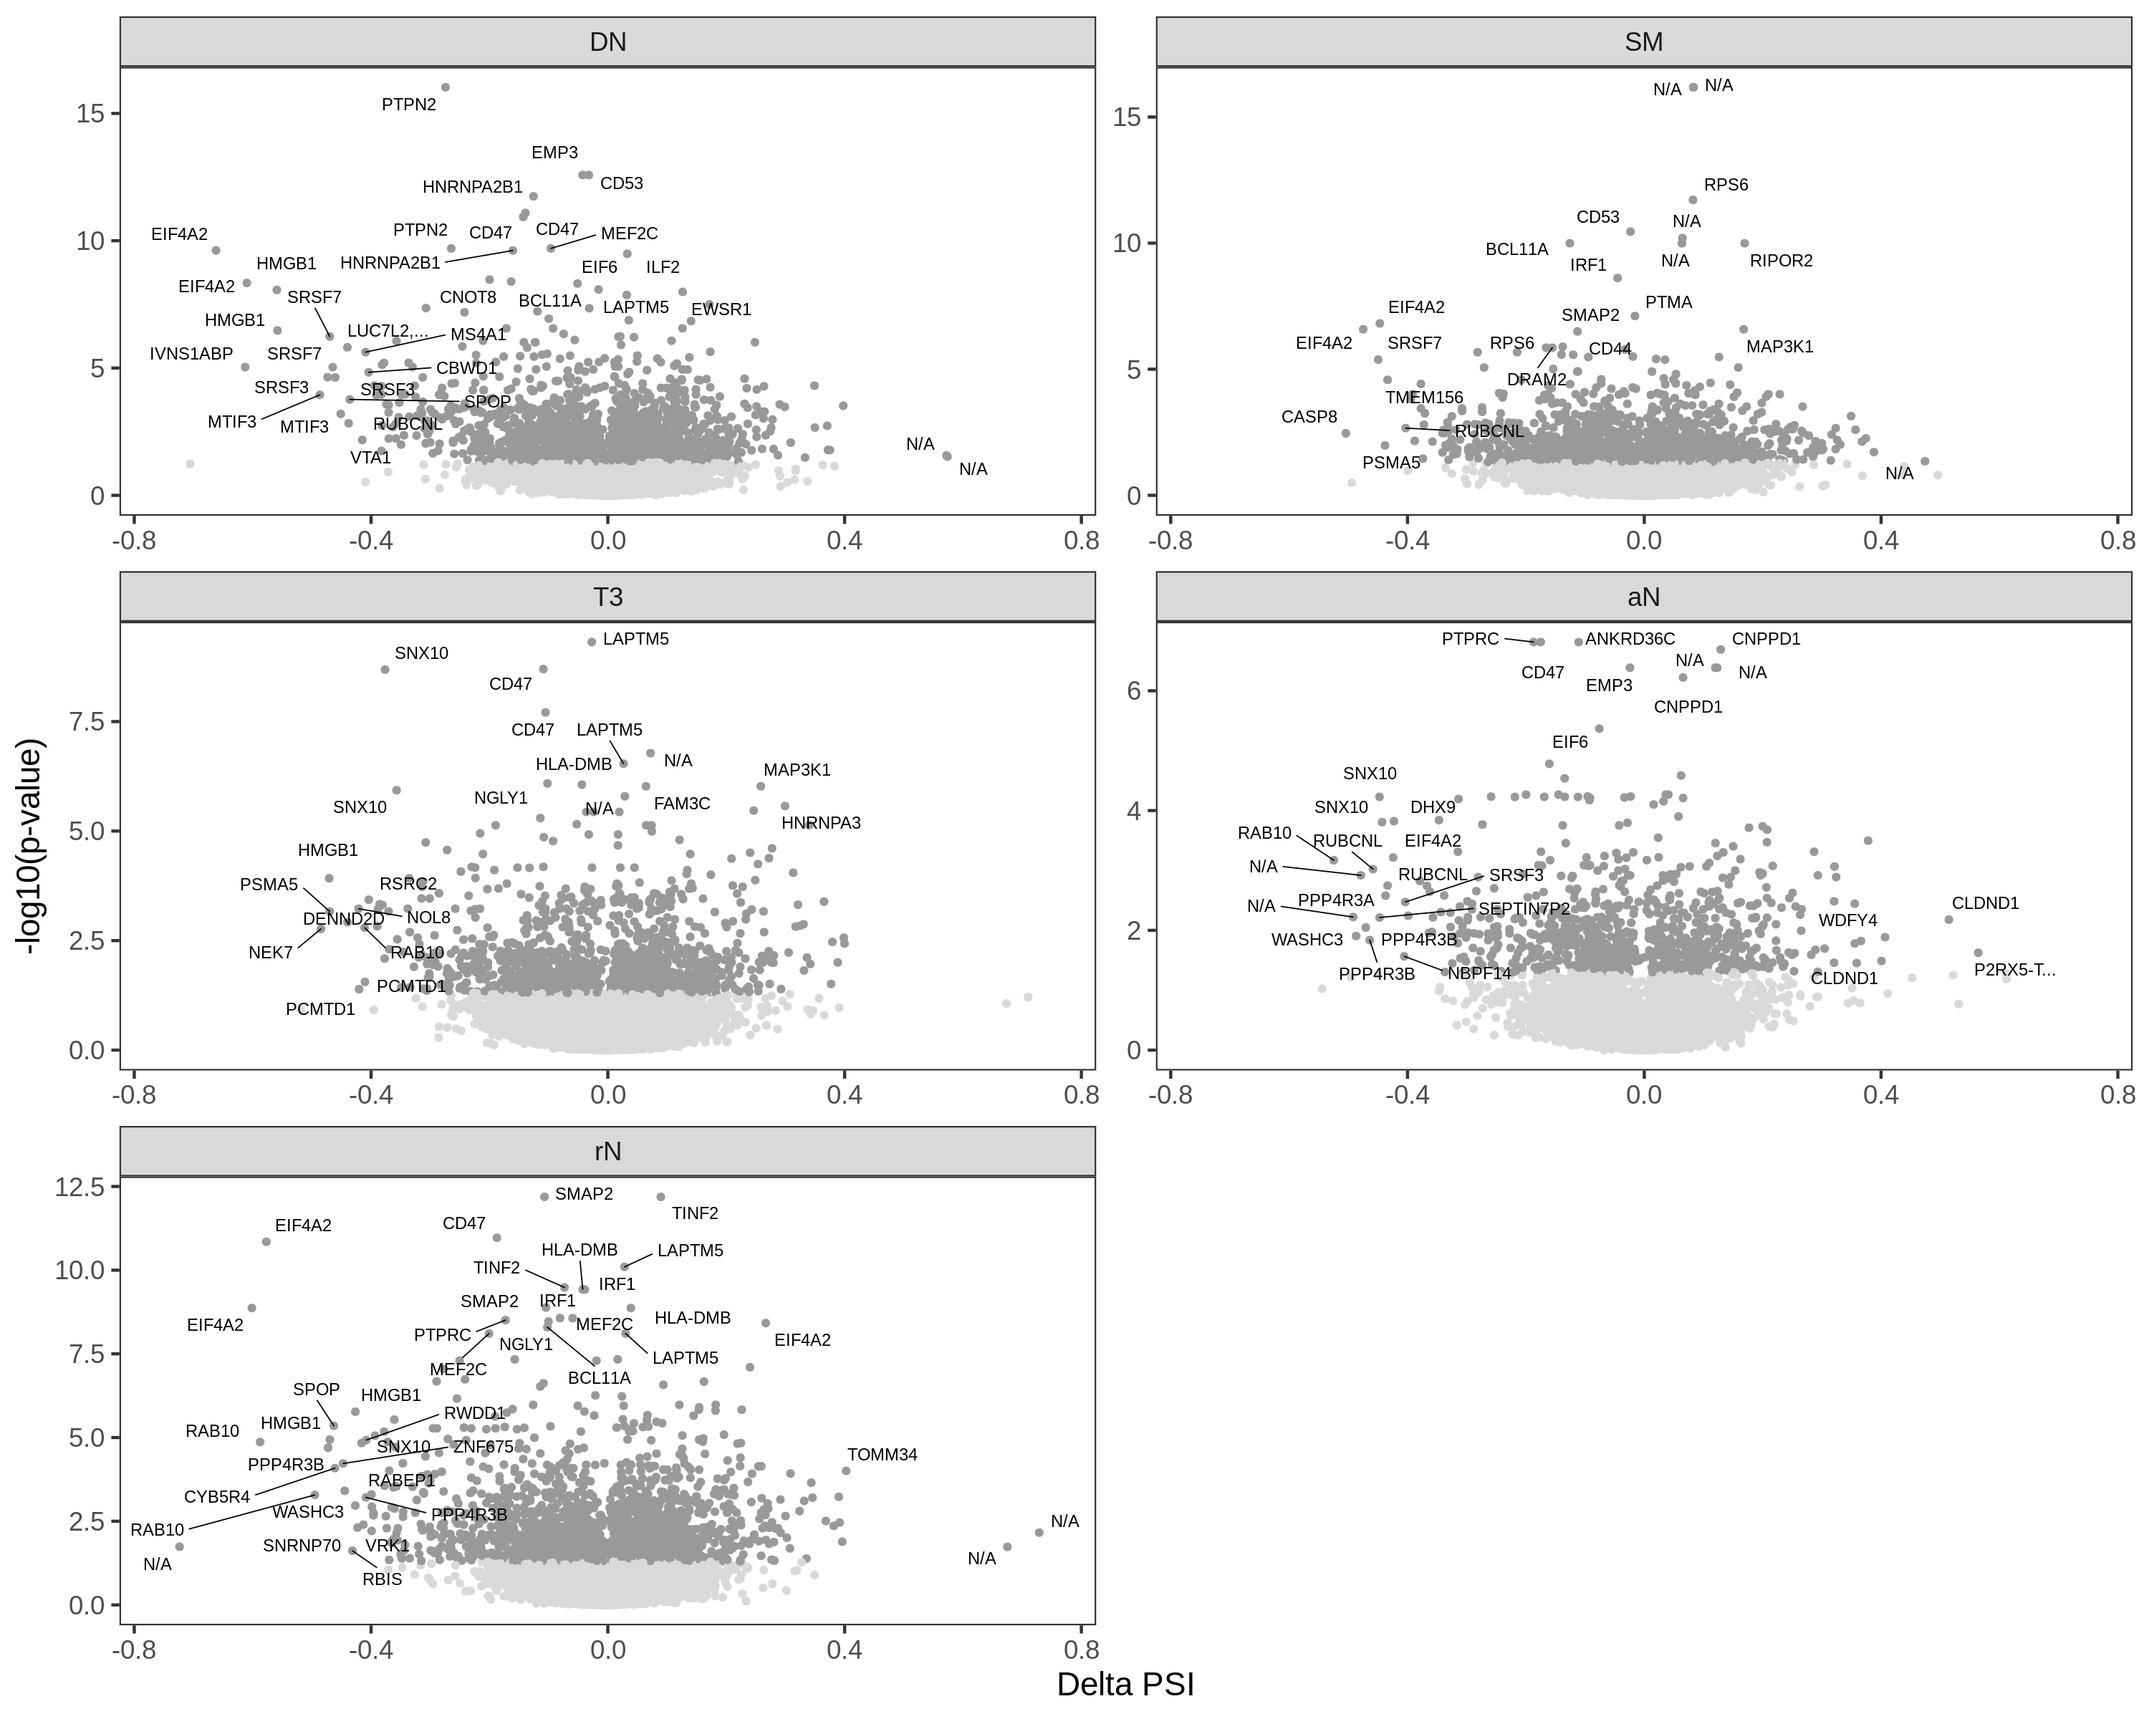
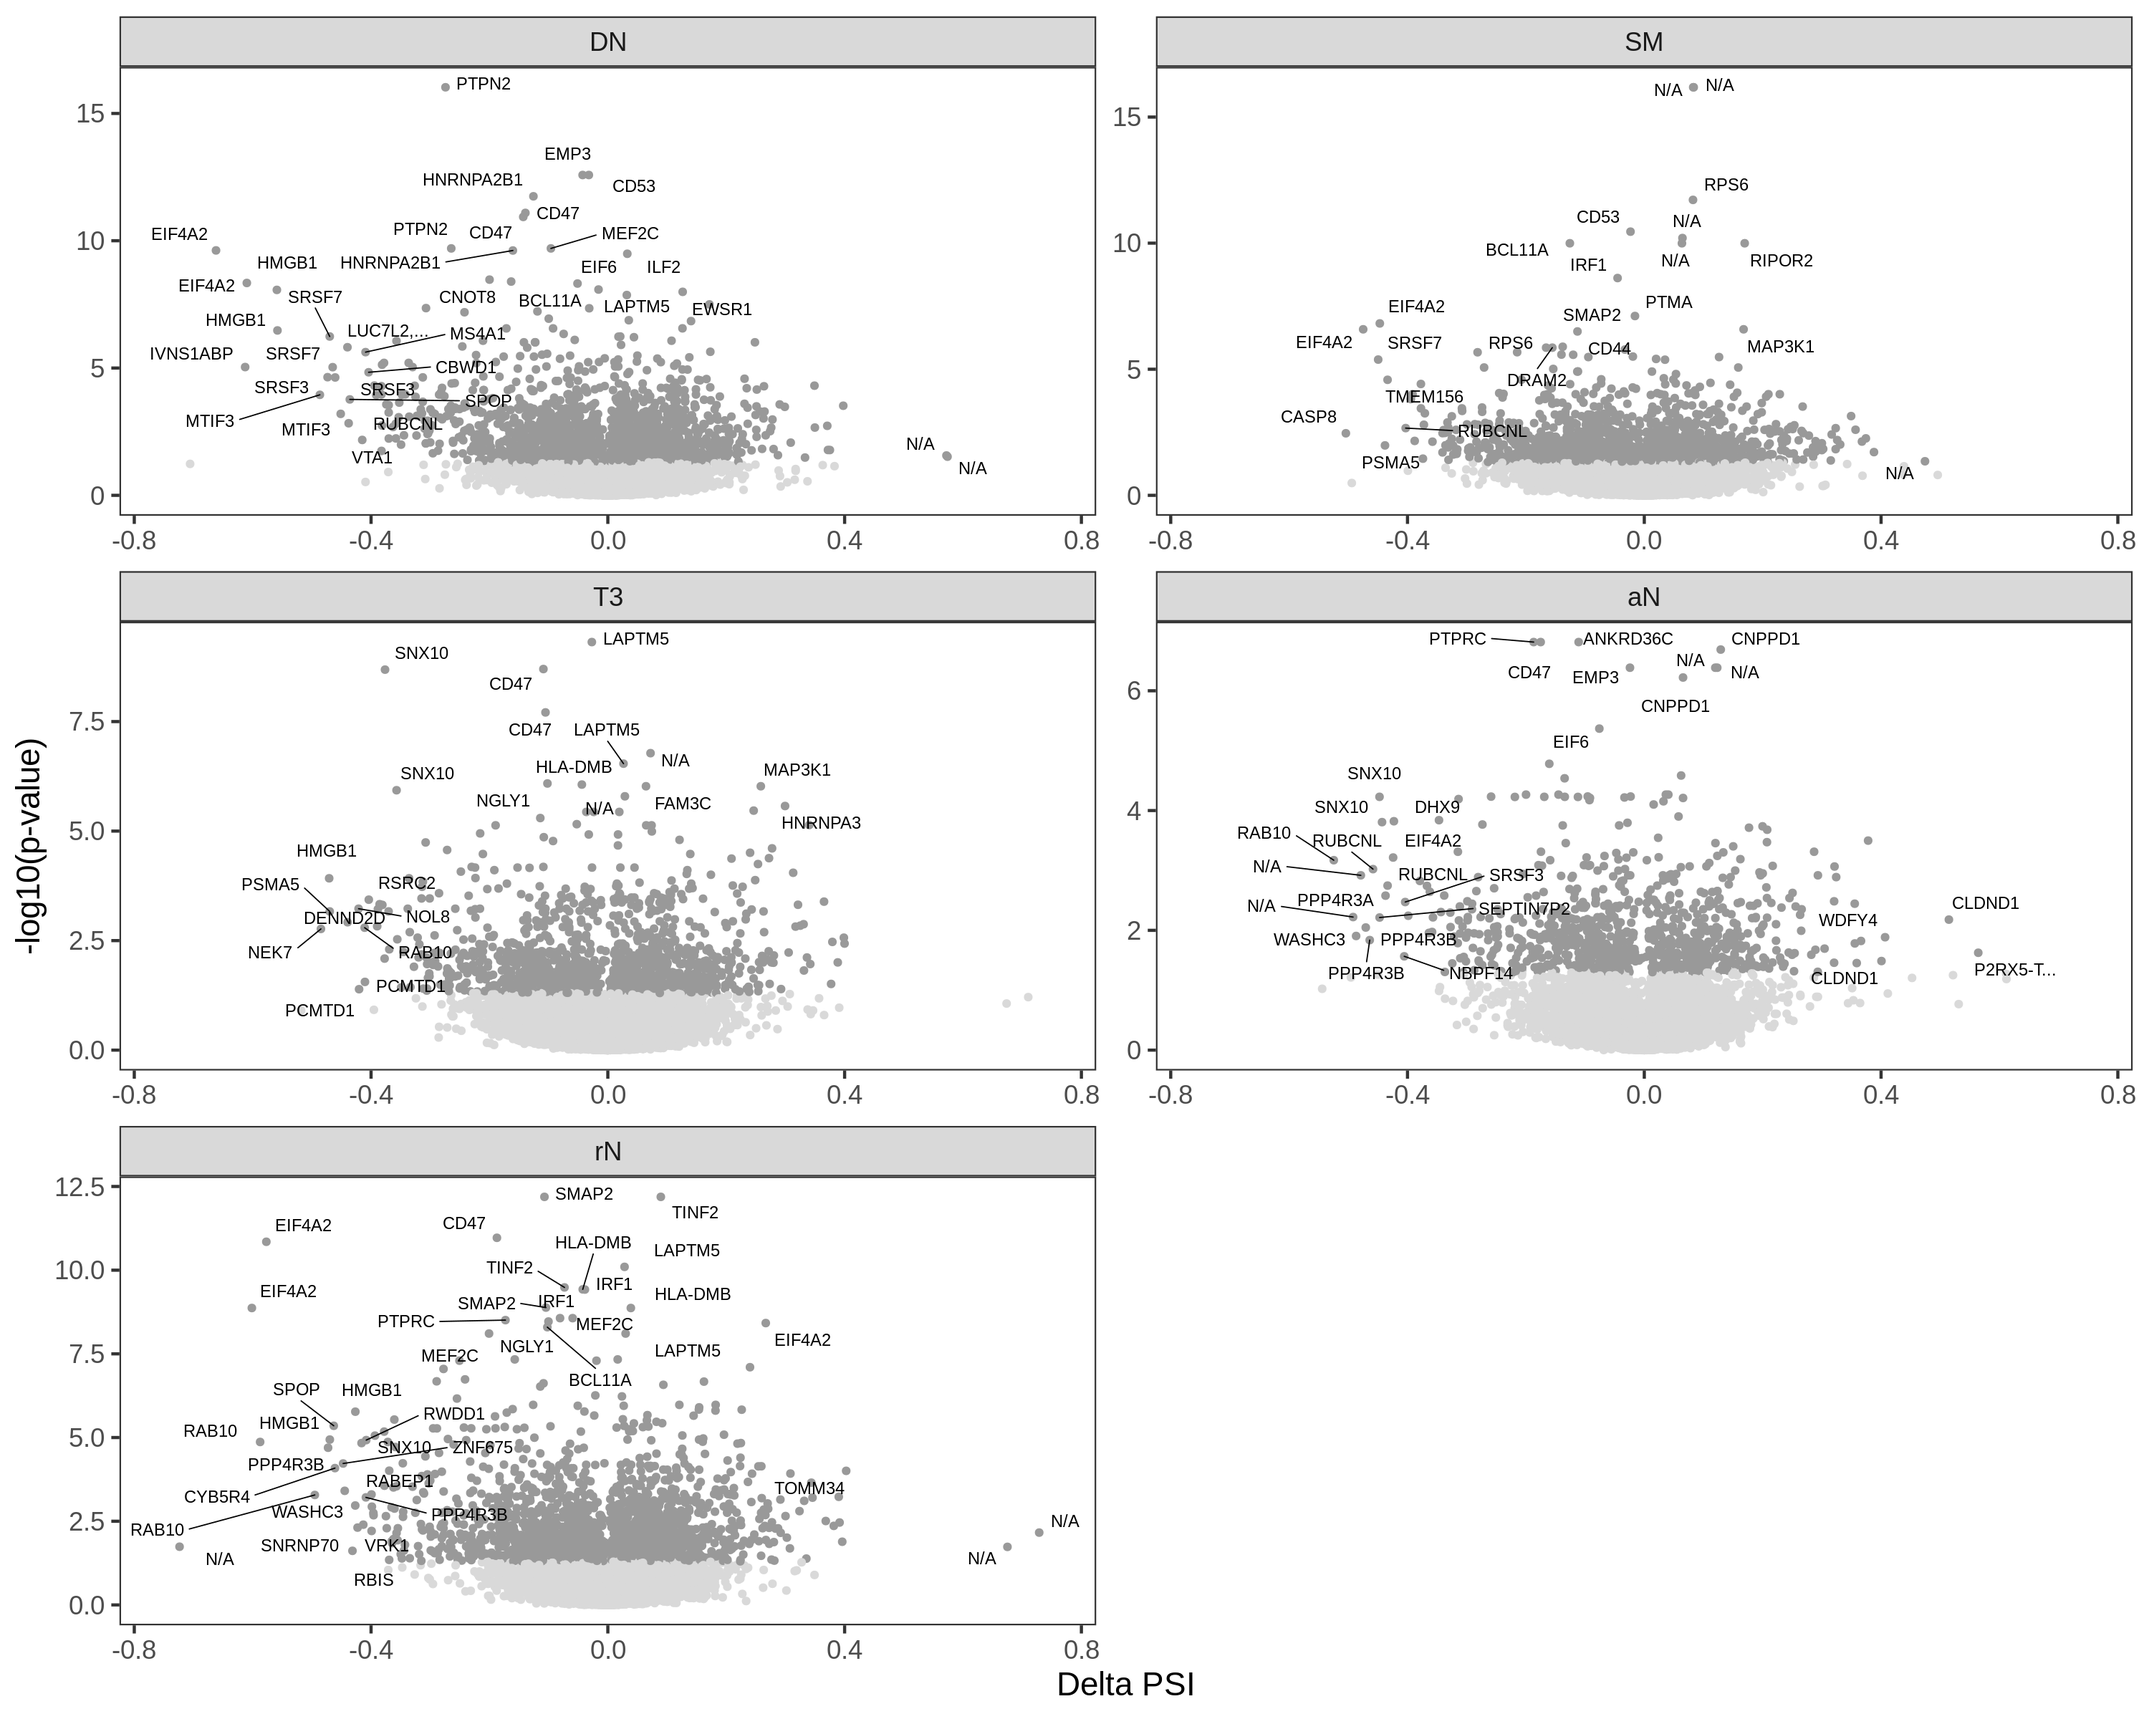
add coloc plot

diff --git a/splicing/README.md b/splicing/README.md
@@ -19,3 +19,7 @@ delta PSI &gt; 0.1.
 ## Differentially spliced genes that are also GWAS genes
 
 ![](README_files/figure-gfm/unnamed-chunk-8-1.png)<!-- -->
+
+## Differentially spliced genes with sQTL-GWAS co-localizations in Mu et al. (2021)
+
+![](README_files/figure-gfm/unnamed-chunk-9-1.png)<!-- -->
